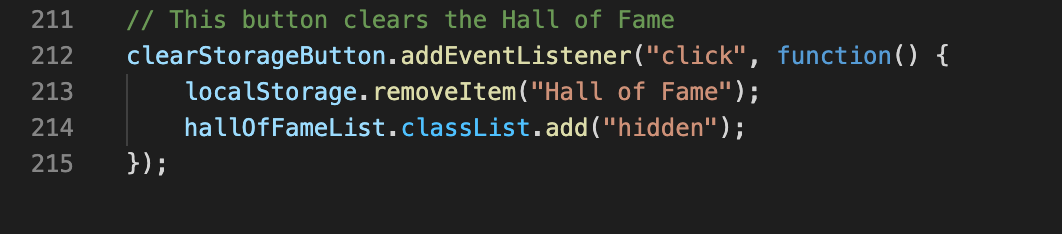
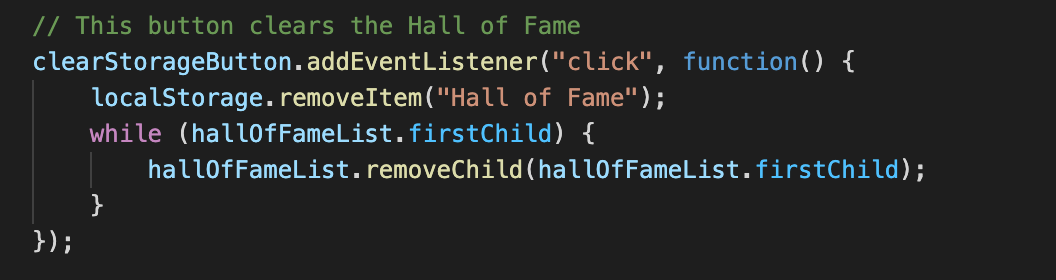
added a restart button, updated readme

Changed region(s): [[0.0312, 0.1795, 0.9062, 0.7778], [0.0312, 0.0299, 0.6562, 0.1496], [0.0312, 0.8077, 0.0938, 0.8974]]

diff --git a/assets/script.js b/assets/script.js
@@ -41,6 +41,7 @@ var hallOfFamePage = document.querySelector("#hallOfFamePage");
 var hallOfFameList = document.querySelector("#hallOfFameList");
 var clearStorageButton = document.querySelector("#clearStorage");
 var quizAgainButton2 = document.querySelector("#quizAgain2");
+var restartButton = document.querySelector("#restartButton");
 
 
 //===========
@@ -211,5 +212,17 @@ maybeButton.addEventListener("click", function() {
 // This button clears the Hall of Fame
 clearStorageButton.addEventListener("click", function() {
     localStorage.removeItem("Hall of Fame");
-    hallOfFameList.classList.add("hidden");
+    while (hallOfFameList.firstChild) {
+        hallOfFameList.removeChild(hallOfFameList.firstChild);
+    }
+});
+
+//This button lets the user take the quiz again
+restartButton.addEventListener("click", function() {
+    while (hallOfFameList.firstChild) {
+        hallOfFameList.removeChild(hallOfFameList.firstChild);
+    }
+    input.value = "";
+    hallOfFamePage.classList.add("hidden");
+    welcomePage.classList.remove("hidden");
 });

diff --git a/index.html b/index.html
@@ -141,6 +141,7 @@
                     <h1>Hall of Fame</h1>
                     <ul id="hallOfFameList"></ul>
                     <button id="clearStorage">Clear Hall of Fame</button>
+                    <button id="restartButton">Restart</button>
                 </main>
 
             </div>

diff --git a/README.md b/README.md
@@ -60,6 +60,10 @@ My next event listeners are for the buttons on the Welcome "Page". They simply a
 
 ![Event Listener4](/assets/screen-shots/eventListener4.png?raw=true "Optional Title")
 
-My final event listener clears the local storage, and clears the list of saved high scores on the Hall of Fame "Page".
+My next event listener clears the local storage, and clears the list of saved high scores on the Hall of Fame "Page".
 
 ![Event Listener5](/assets/screen-shots/eventListener5.png?raw=true "Optional Title")
+
+My final event listener is for the restart button. It lets the user restart the quiz. It first has to delete the list elements, and clear the form input so they don't hold over from the previous quiz.
+
+![Event Listener6](/assets/screen-shots/eventListener6.png?raw=true "Optional Title")
